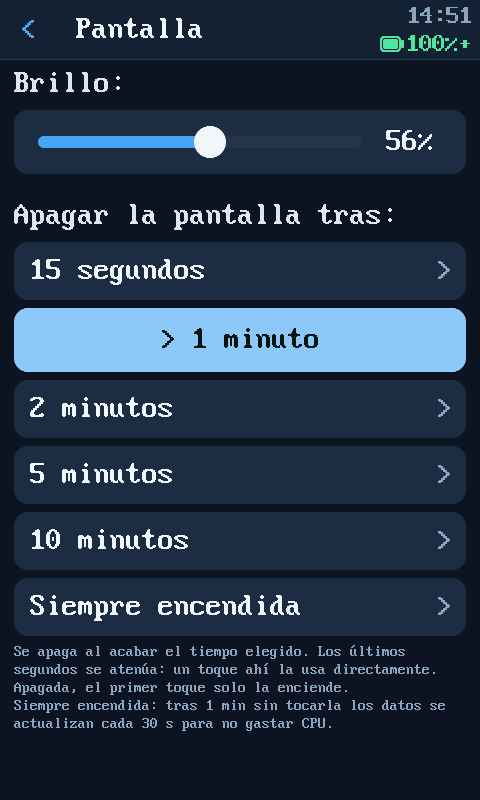
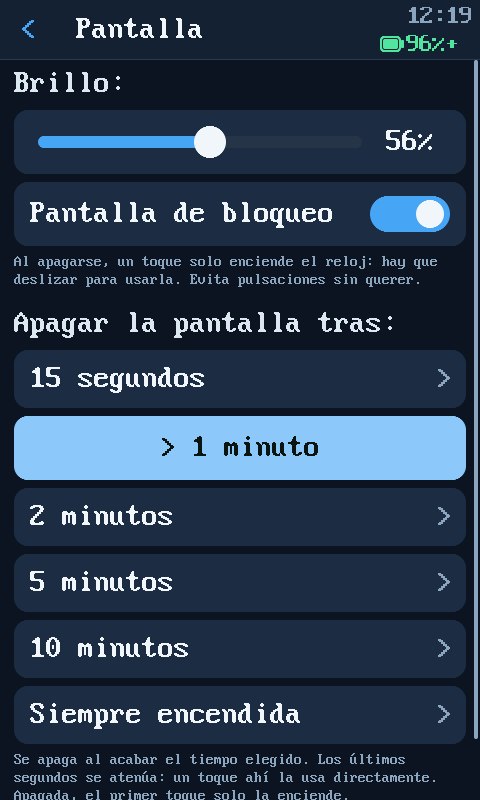
Release 1.2.0: lock screen

diff --git a/README.md b/README.md
@@ -21,6 +21,7 @@ El Galaxy J1 de 2015 (2 núcleos a 1,2 GHz, 512 MB de RAM) no sirve ya como móv
 - **Apertura automática del puerto** en el router (UPnP) y **DNS dinámico** con Cloudflare (opcional).
 - **Red Wi-Fi propia de configuración** (`DIRECT-J1-VPN-XXXX`) para configurarlo sin cables.
 - **SSH por USB opcional** (solo con clave), activable desde el panel web.
+- **Pantalla de bloqueo** desactivable: con la pantalla apagada, una mano encima no pulsa nada; hay que deslizar para usarla.
 - **Zona horaria** seleccionable desde la pantalla o la web (España, Canarias, Latinoamérica, EE. UU.…).
 - Consumo de CPU nulo en reposo: la pantalla no gasta nada cuando está apagada.
 
@@ -33,7 +34,7 @@ Capturas reales de la pantalla del J1 (480×800), con datos de ejemplo.
 <table>
 <tr><td align="center"><img src="docs/img/inicio.png" width="200" alt="Inicio"><br><sub>Inicio</sub></td><td align="center"><img src="docs/img/wireguard.png" width="200" alt="WireGuard"><br><sub>WireGuard</sub></td><td align="center"><img src="docs/img/qr.png" width="200" alt="QR para la app"><br><sub>QR para la app</sub></td></tr>
 <tr><td align="center"><img src="docs/img/wifi.png" width="200" alt="Wi-Fi"><br><sub>Wi-Fi</sub></td><td align="center"><img src="docs/img/cliente.png" width="200" alt="Cliente VPN"><br><sub>Cliente VPN</sub></td><td align="center"><img src="docs/img/velocidad.png" width="200" alt="Prueba de velocidad"><br><sub>Prueba de velocidad</sub></td></tr>
-<tr><td align="center"><img src="docs/img/recursos.png" width="200" alt="Recursos"><br><sub>Recursos</sub></td><td align="center"><img src="docs/img/pantalla.png" width="200" alt="Brillo y apagado"><br><sub>Brillo y apagado</sub></td><td align="center"><img src="docs/img/apagar.png" width="200" alt="Botón de encendido mantenido"><br><sub>Botón de encendido mantenido</sub></td></tr>
+<tr><td align="center"><img src="docs/img/recursos.png" width="200" alt="Recursos"><br><sub>Recursos</sub></td><td align="center"><img src="docs/img/pantalla.png" width="200" alt="Brillo, bloqueo y apagado"><br><sub>Brillo, bloqueo y apagado</sub></td><td align="center"><img src="docs/img/apagar.png" width="200" alt="Botón de encendido mantenido"><br><sub>Botón de encendido mantenido</sub></td></tr>
 </table>
 
 ## Requisitos

diff --git a/README.en.md b/README.en.md
@@ -11,7 +11,7 @@ RAM prices are sky-high, so even a small home server costs more and more. Meanwh
 ## Features
 
 - WireGuard **in the kernel** (ARM/NEON crypto); clients created on the phone screen and imported with a **QR code**.
-- Touchscreen UI (C, framebuffer, zero CPU when the screen is off): status, Wi-Fi, VPN clients, logs, resources, brightness, speed test, power menu.
+- Touchscreen UI (C, framebuffer, zero CPU when the screen is off): status, Wi-Fi, VPN clients, logs, resources, brightness, lock screen (slide to unlock, can be turned off), speed test, power menu.
 - Optional web panel over the phone's own Wi-Fi network or USB.
 - **USB Ethernet via OTG** (RTL8153 tested): the phone powers the adapter; cable first, **Wi-Fi as standby on the same IP** (single port forward).
 - Automatic port forwarding (UPnP) and Cloudflare dynamic DNS (optional).
